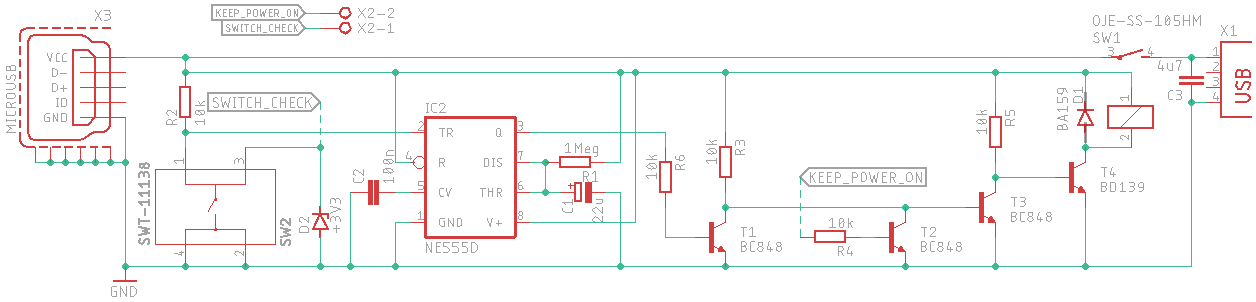
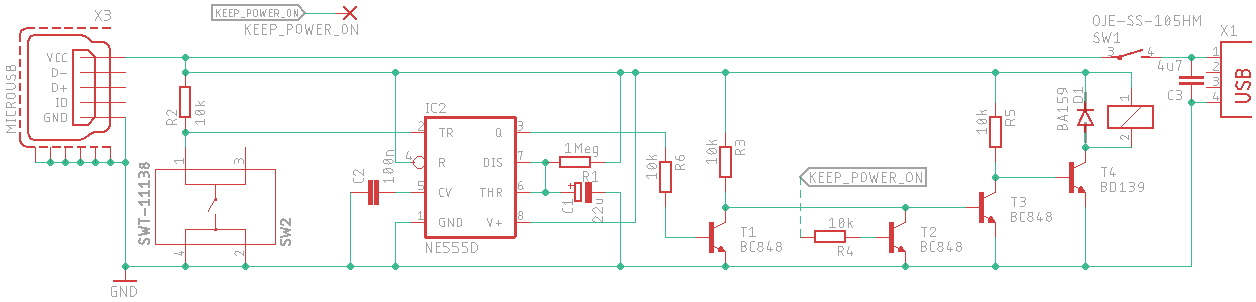
Removed "SWITCH_CHECK" signal. Does not work as expected. Somehow it turns on Raspberry Pi.
Added gerber files

diff --git a/README.md b/README.md
@@ -1,11 +1,13 @@
 # raspberry_switch
-A switch to turn on and truly turn off raspberry Pi.
+A switch to turn on and truly turn off raspberry Pi (Zero).
 
 ## How it works
 
 From schematic point of view, it look like this:
 
 ![Schematics](schematics.png)
+
+![Top view](top.png)
 
 When SW2 switch is pressed, NE555 will keep power on for approximately 24 seconds.
 During this time, Raspberry Pi will boot and start service 
@@ -18,6 +20,9 @@ low and effectively cut off the power.
 I have designed PCB with Autodesk Eagle. You may download and change according to your liking: 
 * [schematics](hardware/Autodesk%20Eagle%20project/main.sch), 
 * [board](hardware/Autodesk%20Eagle%20project/main.brd)
+
+There are also [gerber files](hardware/gerber_files.zip)
+
 
 ## How to install
 1. Copy everything from software folder into your root folder
